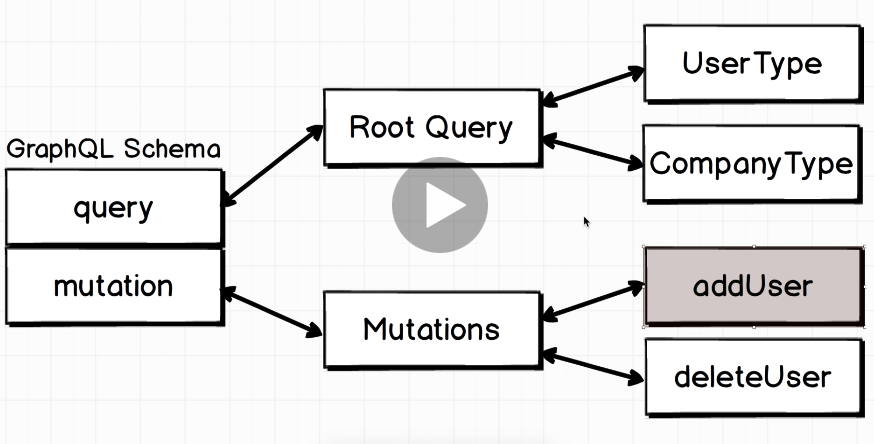
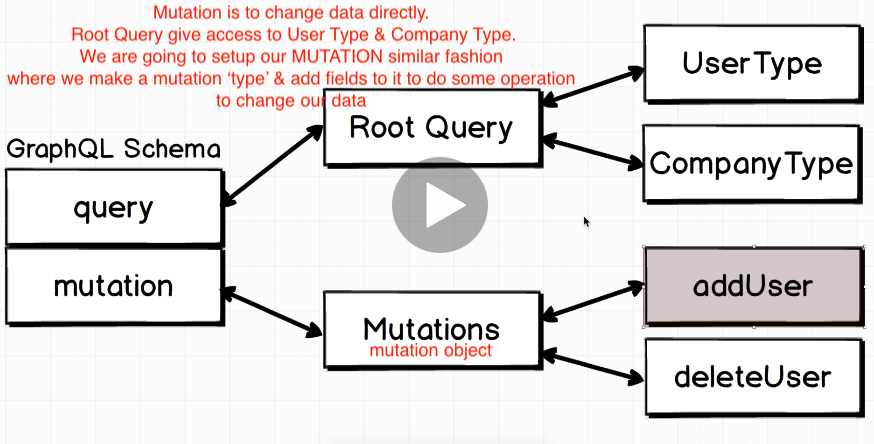
mutations

Changed region(s): [[0.0, 0.0, 0.6487, 0.2635], [0.4325, 0.7613, 0.5561, 0.8198]]

diff --git a/users/schema/schema.js b/users/schema/schema.js
@@ -13,28 +13,34 @@ const axios = require('axios');
 
 // GraphQL properties
 // GraphQLSchema - takes in a root query & returns graphQL instance
-const { GraphQLObjectType, GraphQLString, GraphQLInt, GraphQLSchema, GraphQLList } = graphql;
+const { GraphQLObjectType, GraphQLString, GraphQLInt, GraphQLSchema, GraphQLList, GraphQLNonNull } = graphql;
 
-// custom data
+// static/hard coded data, not live or dynamic data
 // const users = [
 //   { id: '23', firstName: 'Rupak', age: 21 },
 //   { id: '47', firstName: 'Indira', age: 20 },
 // ];
 
+// note - It is very important to define CompanyType above UserType
+// Order of Definition into play here
 const CompanyType = new GraphQLObjectType({
   name: 'Company',
-  // arrow func is to resolve Circular Reference - 'variable scope' with Closure
+  // 'Arrow Func' is to resolve Circular Reference - 'variable scope' with Closure
   fields: () => ({
     id: { type: GraphQLString },
     name: { type: GraphQLString },
     description: { type: GraphQLString },
 
+    // NOTE - To access data from COMPANY to USERS
     // how to go from Single Company over to list of users
+    // http://localhost:3000/companies/2/users
     users: {
       // when we go from Company to over users, we have many Users associated to a single company
       // we have to tell GraphQL, it should expected to get back a list of USERS associated to single company
-      type: new GraphQLList(UserType),
+      type: new GraphQLList(UserType), // GraphQLList - to get array/list of users
       resolve(parentValue, args) {
+        // 'parentValue' is the Parent Data table - 'User' object of this table
+        // console.log(parentValue.id);
         return axios.get(`http://localhost:3000/companies/${parentValue.id}/users`).then(res => res.data);
       },
     },
@@ -42,6 +48,7 @@ const CompanyType = new GraphQLObjectType({
 });
 
 // using GraphQLObjectType to instruct GraphQL about the presence of a 'USER' schema/data
+// To create 'User' schema
 const UserType = new GraphQLObjectType({
   // name - document/table name
   name: 'User',
@@ -54,15 +61,18 @@ const UserType = new GraphQLObjectType({
     firstName: { type: GraphQLString },
     age: { type: GraphQLInt },
 
-    // adding another data table
+    // NOTE - To access data from USERS to COMPANY
+    // Note - setting up Nested Queries with field - 'company'
+    // Linking another data table
     // similar to foreign key in relational database
     company: {
       type: CompanyType,
 
-      // resolve to connect foreign key
+      // resolve to connect foreign key and to 'Search & Get the Data'
+      // resolve func also works by returning a PROMISE - async request
       resolve(parentValue, args) {
         // console.log(parentValue, args);
-        // parentValue is the Parent Data table - 'User' of this table
+        // 'parentValue' is the Parent Data table - 'User' of this table
         return axios.get(`http://localhost:3000/companies/${parentValue.companyId}`).then(res => res.data);
       },
     },
@@ -74,6 +84,7 @@ const UserType = new GraphQLObjectType({
 const RootQuery = new GraphQLObjectType({
   name: 'RootQueryType',
   fields: {
+    // start with - user(id: "23") { }
     user: {
       // start from 'User' node
       type: UserType,
@@ -81,11 +92,12 @@ const RootQuery = new GraphQLObjectType({
       // arguments for User search
       args: { id: { type: GraphQLString } },
 
-      // very important func which performs the search & get the data
+      // very important func which performs the 'Search & Get the Data' into our database
       // parentValue - don't get used very often
-      // args - This is an Object which gets call whatever arguments are passed into the original query above - search with id
+      // args - This is an Object which gets call whatever arguments are passed into the original query above - search with id - (id: "23")
       // The purpose of resolve is that it must return a data that represents a 'data/document' table/object here
 
+      // args - (id: "23")
       resolve(parentValue, args) {
         // to find a user inside our custom array
         // we are walking through the list of 'users' array which will
@@ -95,13 +107,16 @@ const RootQuery = new GraphQLObjectType({
         // NOTE - The resolve function works also by returning a Promise - async fashion
         // making request to outside server
         return axios.get(`http://localhost:3000/users/${args.id}`).then(resp => resp.data);
+        // GraphQL will automatically detects that we returned a Promise, wait for Promise to RESOLVE
+        // and send resolved data to the user
       },
       // note - We are asking to RootQuery about 'users' in the app
       // if we provide the 'id' of the 'user' that we are looking for
       // RootQuery will return a 'user' back to us
     },
 
-    // sibling to 'user'
+    // company(id: "1") { - another field here
+    // sibling to 'user' - setting a starting point to query with 'Company' like with 'user' above
     company: {
       type: CompanyType,
       args: { id: { type: GraphQLString } },
@@ -112,27 +127,79 @@ const RootQuery = new GraphQLObjectType({
   },
 });
 
+// Mutation is to change data directly.
+// We are going to setup our Mutation Object similar fashion like Root Query Type
+// where we make a 'Mutation Type' & add 'fields' to it to do some operation to change our data
+
 // ROOT MUTATION
 const mutation = new GraphQLObjectType({
   name: 'Mutation',
   fields: {
-    // list of mutations - to change/update data schema
+    // to add user into our USERS array list
+    // 'addUser' - name describes an operation/purpose
     addUser: {
-      // name describes an operation
+      // type of data we are going to return from resolve function
       type: UserType,
       args: {
+        // to add user, we need all these args object
+        // GraphQLNonNull - to make it 'required' field where a value is needed
         firstName: { type: new GraphQLNonNull(GraphQLString) },
+        age: { type: new GraphQLNonNull(GraphQLInt) },
+        companyId: { type: GraphQLString },
+      },
+      resolve(parentValue, { firstName, age, companyId }) {
+        // destructuring args
+        return axios.post(`http://localhost:3000/users`, { firstName, age, companyId }).then(res => res.data);
+      },
+    },
+
+    // to delete user
+    deleteUser: {
+      type: UserType,
+      args: {
+        id: { type: new GraphQLNonNull(GraphQLString) },
+      },
+      resolve(parentValue, { id }) {
+        return axios.delete(`http://localhost:3000/users/${id}`).then(res => res.data);
+      },
+    },
+
+    // to edit existing user
+    editUser: {
+      type: UserType,
+      args: {
+        id: { type: new GraphQLNonNull(GraphQLString) },
+        // optionally provide
+        firstName: { type: GraphQLString },
         age: { type: GraphQLInt },
         companyId: { type: GraphQLString },
       },
-      resolve() {},
+      // args will contain all above fields if we want to update individually/partially
+      resolve(parentValue, args) {
+        return axios.patch(`http://localhost:3000/users/${args.id}`, args).then(res => res.data);
+      },
     },
+
+    // update query
+    // mutation {
+    //   # name of the mutation we want to call with args
+    //   editUser(id:"40", age: 10) {
+    //     # whenever we call the mutation, we must ask for props coming back
+    //     # props which got resolved from a resolve function
+    //     id
+    //     firstName
+    //     age
+    //   }
+    // }
   },
 });
 
 // GraphQLSchema - helper which takes in a Root query & returns graphQL instance
 module.exports = new GraphQLSchema({
   query: RootQuery,
+
+  // root mutation object to use
+  mutation: mutation,
 });
 // we want to export above & make it available to other parts of the application
 // We want to import this in main file - server.js

diff --git a/users/server.js b/users/server.js
@@ -14,7 +14,7 @@ app.use(
   '/graphql',
   expressGraphQL({
     // Note - only intended to use for Development server
-    // GraphiQL is an in-browser tool for writing, validating, and testing GraphQL queries
+    // GraphiQL is an in-browser development tool for writing, validating, and testing GraphQL queries
     // provided by GraphiQL Express library
     graphiql: true,
     // we have to provide 'schema' - A graph of data structure inside of a schema file
